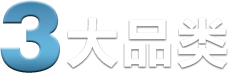
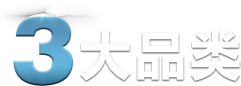
page five

Changed region(s): [[0.0, 0.0, 1.0, 1.0], [0.3684, 0.274, 0.4298, 0.411]]

diff --git a/scripts/index.js b/scripts/index.js
@@ -73,6 +73,9 @@ $(function () {
             if ($('.next_pagethree').hasClass('active')) {
                 next_pageThree();
             }
+            if ($('.next_pagefive').hasClass('active')) {
+                next_pageFive();
+            }
             if ($('.next_pagesix').hasClass('active')) {
                 next_pageSix();
             }
@@ -127,13 +130,13 @@ function next_pageone() {
     $("#next_pageone_one").addClass('animated zoomIn');
     $("#next_pageone_two").addClass('animated zoomIn');
     $("#next_pageone_three").addClass('animated zoomIn');
-    // $("#next_pageone_four").addClass('animated flash');
-    setTimeout(function () {
-        $("#next_pageone_four").addClass('animated flash');
-    }, 3000);
-    setTimeout(function () {
-        $.fn.fullpage.moveTo(14, 0);
-    }, 8500);
+    $("#next_pageone_four").addClass('animated flash');
+    // setTimeout(function () {
+    //     $("#next_pageone_four").addClass('animated flash');
+    // }, 3000);
+    // setTimeout(function () {
+    //     $.fn.fullpage.moveTo(14, 0);
+    // }, 8500);
 
 }
 
@@ -171,9 +174,25 @@ function next_pageFour() {
 }
 
 function next_pageFive() {
+    $("#next_five-one").addClass('animated rotateIn');
+    setTimeout(function () {
+        $("#next_five-two").addClass('animated fadeIn');
+    }, 1500);    
+    setTimeout(function () {
+        $("#next_five-three").addClass('animated fadeIn');
+    }, 2200);
+    setTimeout(function () {
+        $("#next_five-four").addClass('animated fadeIn');
+    }, 2900);
+    setTimeout(function () {
+        $("#next_five-one").addClass('animated zoomOutLeft');
+        $("#next_five-two").addClass('animated zoomOutLeft');
+        $("#next_five-three").addClass('animated zoomOutLeft');
+        $("#next_five-four").addClass('animated zoomOutLeft');
+    }, 4000);
     setTimeout(function () {
         $.fn.fullpage.moveTo(18, 0);
-    }, 10000);
+    }, 5000);
 }
 
 function next_pageSix() {

diff --git a/styles/pagetwo.css b/styles/pagetwo.css
@@ -58,7 +58,8 @@
 }
 
 #next_pageone_one img {
-    width: 80%;
+    width: 5.18rem;
+    height:1.4rem;
 }
 
 #next_pageone_two {
@@ -71,7 +72,8 @@
 }
 
 #next_pageone_two img {
-    width: 75%;
+    width: 4.86rem;
+    height:1.2rem;
 }
 
 #next_pageone_three {
@@ -85,7 +87,8 @@
 }
 
 #next_pageone_three img {
-    width: 70%;
+    width: 4.47rem;
+    height:1.34rem;
 }
 
 #next_pageone_four {
@@ -101,7 +104,8 @@
 }
 
 #next_pageone_four img {
-    width: 100%;
+    width:6.4rem;
+    height:auto;
 }
 
 
@@ -531,7 +535,77 @@
     height: 8.85rem;
 }
 
-
+/* 第5屏*/
+#next_pagefive-bg {
+    position: absolute;
+    left: 0;
+    top: 0;
+    width: 100%;
+    height: 100%;
+    background: url('../images/two/5_bg.png') no-repeat center center;
+    background-size: 100% 100%;
+}
+.next_pagefive #next_five-one {
+    position: absolute;
+    left:0;
+    top: 50%;
+    margin-top:-5.3rem;
+    width: 100%;
+    text-align: center;
+    animation-duration: 2s;
+    opacity: 0.5;   
+}
+#next_five-one img{
+    width:50%;
+    height:50%;
+}
+.next_pagefive #next_five-one.rotateIn img{
+    width: 5.58rem;
+    height:5.48rem;
+    opacity: 1;
+}
+#next_five-two {
+    position: absolute;
+    left: 0;
+    top: 50%;
+    margin-top:0.4rem;
+    width: 100%;
+    text-align: center;
+    animation-duration: 1s;
+    opacity: 0;
+}
+#next_five-two img{
+    width: 2.17rem;
+    height:1.23rem;
+}
+#next_five-three {
+    position: absolute;
+    left: 0;
+    top: 50%;
+    width: 100%;
+    margin-top:1.7rem;
+    text-align: center;
+    animation-duration: 1s;
+    opacity: 0;
+}
+#next_five-three img{
+    width: 2.41rem;
+    height:0.86rem;
+}
+#next_five-four {
+    position: absolute;
+    left: 0;
+    top: 50%;
+    margin-top:2.9rem;
+    width: 100%;
+    text-align: center;
+    animation-duration: 1s;
+    opacity: 0;
+}
+#next_five-four img{
+    width: 3.67rem;
+    height:0.9rem;
+}
 /* 第6屏 */
 
 #next_pagesix-bg {
